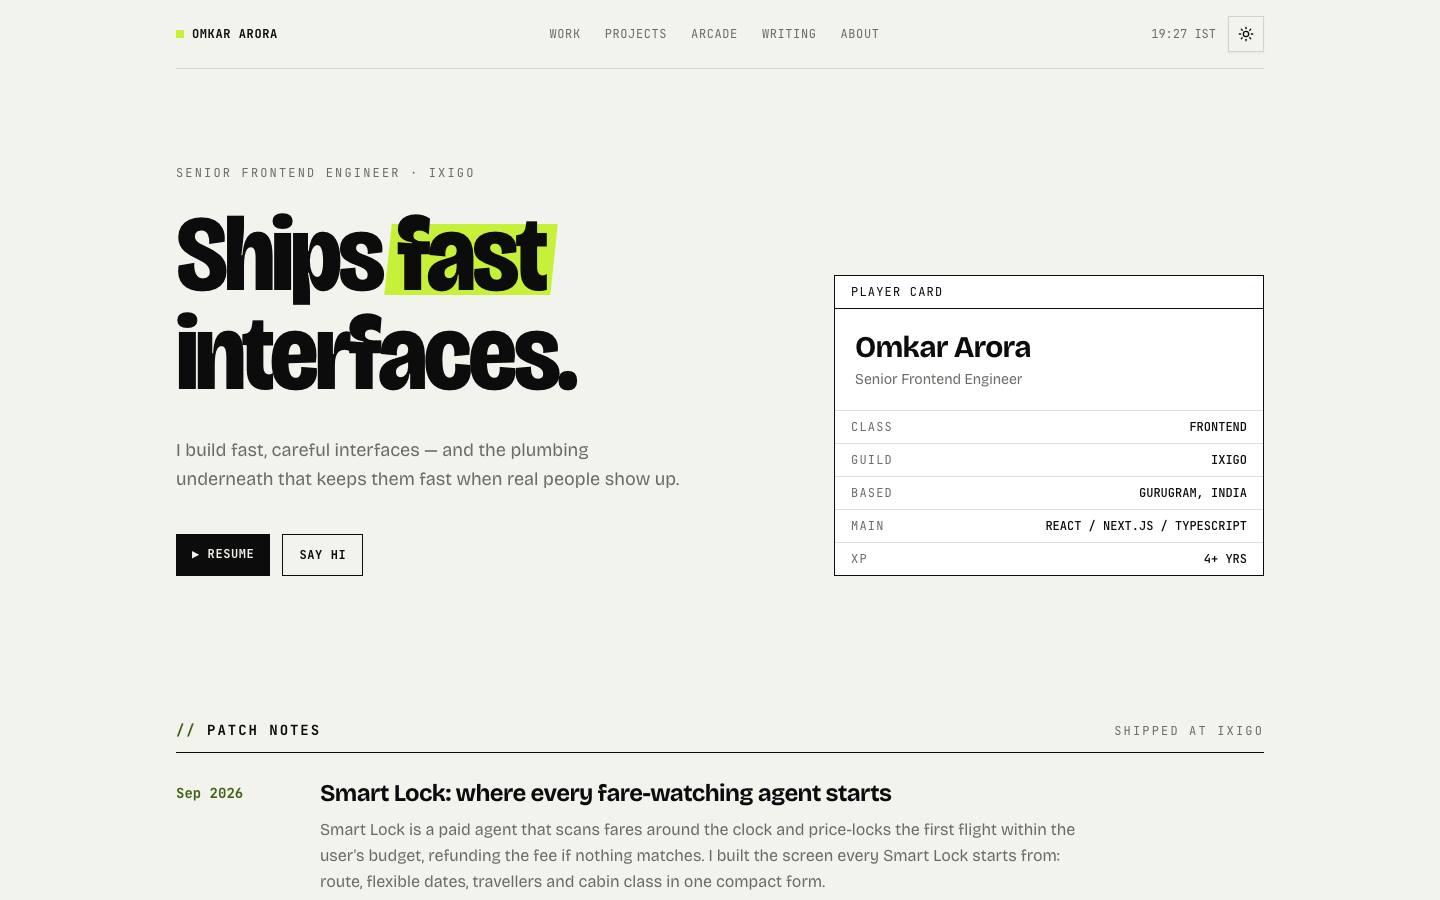
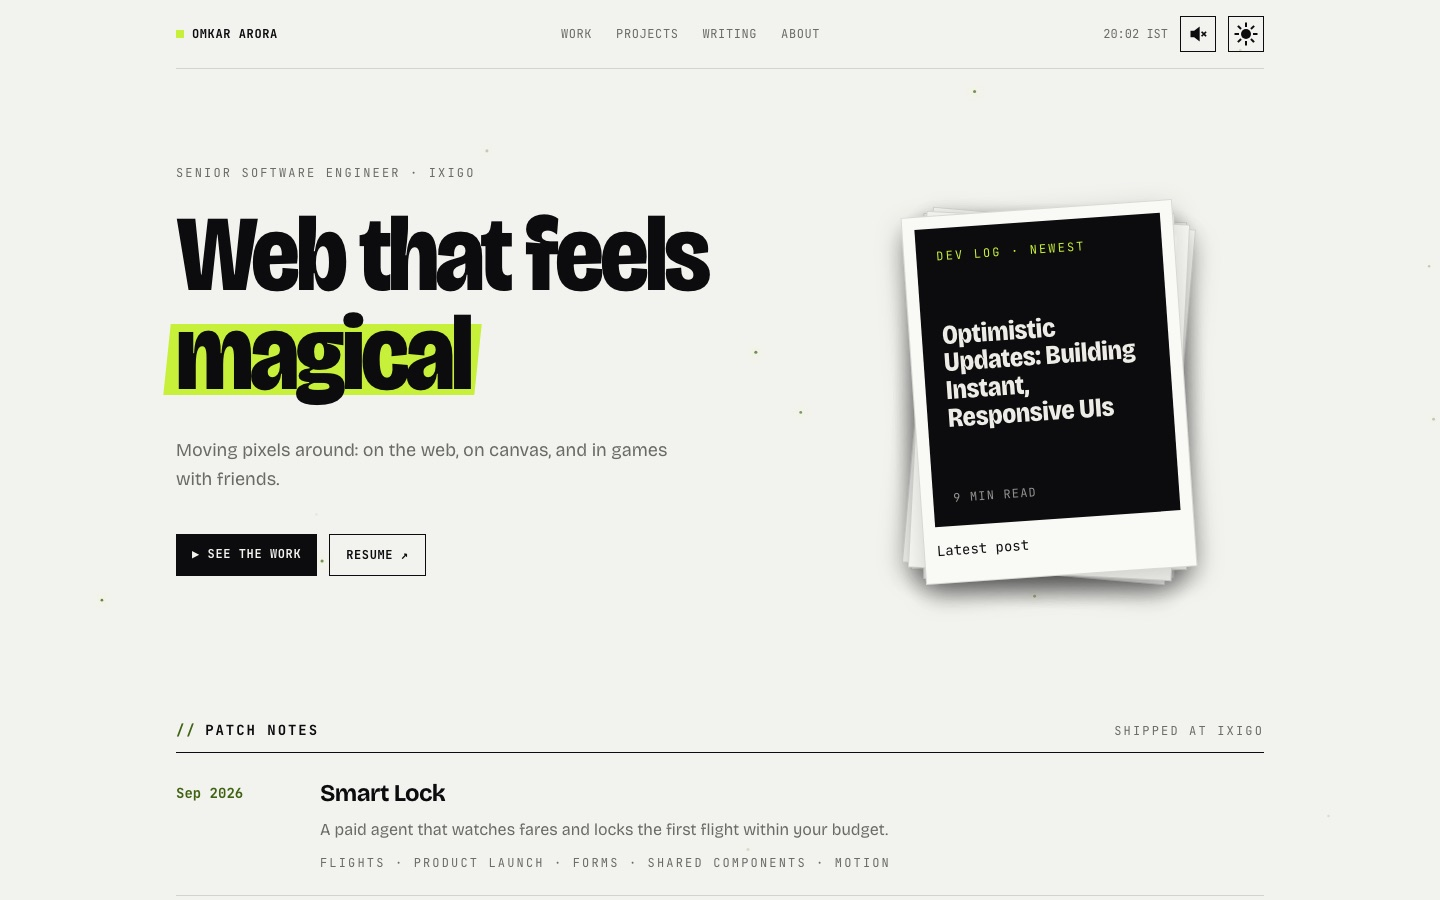
content: version history shows v3 as it looks now
New desktop and phone screens of the home page (Web that feels magical,
the polaroids, fireflies), taken from the production build; the v3
summary and notes now mention the polaroids, fireflies, the theme bloom,
About's interests and the sound effects.

Claude-Session: https://claude.ai/code/session_01GganaCGnd9n3fxJ5qbp8AU

diff --git a/src/content/site-history.ts b/src/content/site-history.ts
@@ -23,11 +23,12 @@ export const versions: Version[] = [
 		name: "Patch notes",
 		address: "omkararora.com",
 		summary:
-			"The one you're reading. Bricolage Grotesque and JetBrains Mono, one lime accent, and a line that draws itself down the Work page as you scroll.",
+			"The one you're reading. Bricolage Grotesque and JetBrains Mono, one lime accent, and a web that feels magical: polaroids that flick through on their own, fireflies drifting behind the page, and a theme that blooms out of its switch.",
 		notes: [
 			"Chosen over two other candidates, Editorial and Panels, built side by side in a lab",
 			"Work, Projects, About and the blog, each a page of its own",
-			"The blog restyled to match, with an outline, reading times and collapsible code",
+			"About shows the art, the games and the shows behind the work, fanned out as polaroids",
+			"Optional 8-bit sound effects, made in the browser from nothing but numbers",
 		],
 		status: "Live",
 	},
